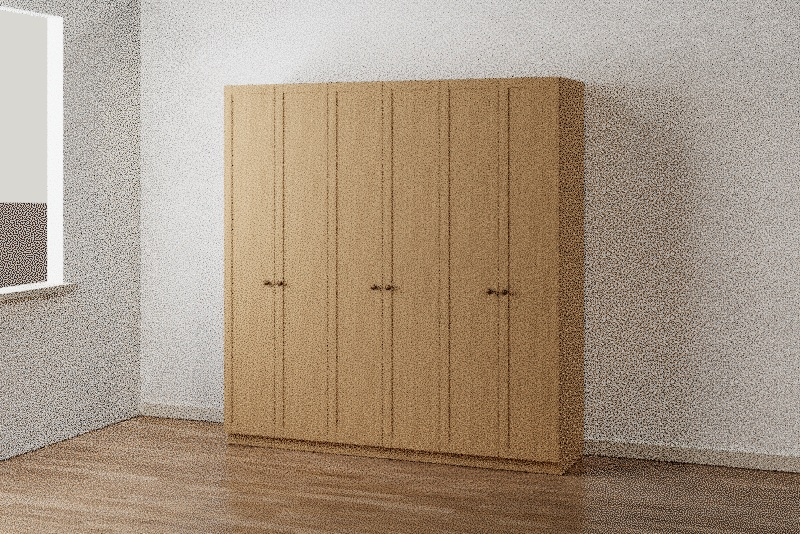
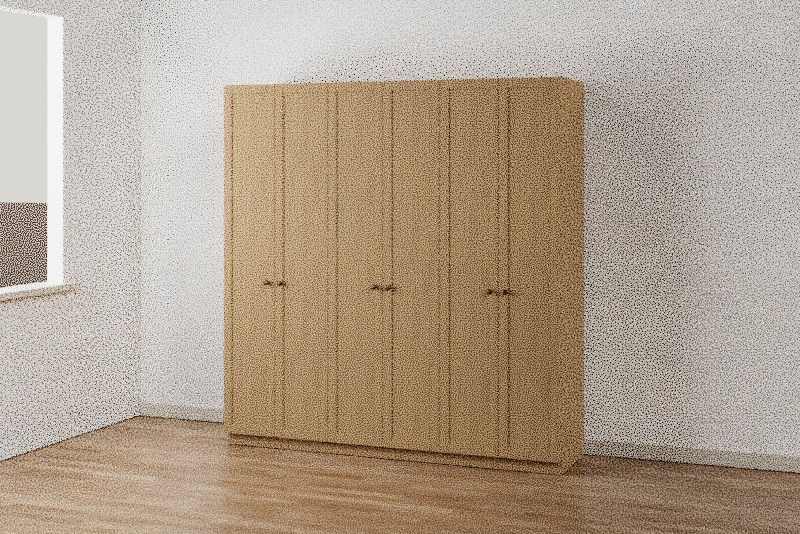
Validate Dolap material coupling and publish product-specific detail previews

diff --git a/knowledge/atmosfer/ornekler.md b/knowledge/atmosfer/ornekler.md
@@ -33,7 +33,7 @@ Yeni raster **2400×1600**; deneysel Vulkan **800×534 / 16 örnek**; CPU Cycles
 | storage-02 | 2400 px CPU üretimi sürüyor; henüz teslim edilmedi. <br> Kapak yüzeyi ve kenar | 2400 px CPU üretimi sürüyor; henüz teslim edilmedi. <br> Kulp / kapak birleşimi | 2400 px CPU üretimi sürüyor; henüz teslim edilmedi. <br> Kapak derzi / gövde birleşimi |
 | kitchen-01 | 2400 px CPU üretimi sürüyor; henüz teslim edilmedi. <br> Tezgâh yüzeyi | 2400 px CPU üretimi sürüyor; henüz teslim edilmedi. <br> Kapak / çekmece derzi | 2400 px CPU üretimi sürüyor; henüz teslim edilmedi. <br> Kulp ve ön yüz birleşimi |
 | kitchen-02 | 2400 px CPU üretimi sürüyor; henüz teslim edilmedi. <br> Tezgâh yüzeyi | 2400 px CPU üretimi sürüyor; henüz teslim edilmedi. <br> Kapak / çekmece derzi | 2400 px CPU üretimi sürüyor; henüz teslim edilmedi. <br> Kulp ve ön yüz birleşimi |
-| bath-01 | 2400 px CPU üretimi sürüyor; henüz teslim edilmedi. <br> Lavabo tablası yüzeyi ve kenarı | 2400 px CPU üretimi sürüyor; henüz teslim edilmedi. <br> Çekmece derzi ve kapak yüzeyi | 2400 px CPU üretimi sürüyor; henüz teslim edilmedi. <br> Kulp veya ayak birleşimi |
+| bath-01 | ![Lavabo tablası yüzeyi ve kenarı](kareler/bath-01-detail-1.jpg) <br> Lavabo tablası yüzeyi ve kenarı | ![Çekmece derzi ve kapak yüzeyi](kareler/bath-01-detail-2.jpg) <br> Çekmece derzi ve kapak yüzeyi | 2400 px CPU üretimi sürüyor; henüz teslim edilmedi. <br> Kulp veya ayak birleşimi |
 | bath-02 | 2400 px CPU üretimi sürüyor; henüz teslim edilmedi. <br> Lavabo tablası yüzeyi ve kenarı | 2400 px CPU üretimi sürüyor; henüz teslim edilmedi. <br> Çekmece derzi ve kapak yüzeyi | 2400 px CPU üretimi sürüyor; henüz teslim edilmedi. <br> Kulp veya ayak birleşimi |
 | wardrobe-01 | 2400 px CPU üretimi sürüyor; henüz teslim edilmedi. <br> Kapak yüzeyi ve kenar | 2400 px CPU üretimi sürüyor; henüz teslim edilmedi. <br> Kulp / kapak birleşimi | 2400 px CPU üretimi sürüyor; henüz teslim edilmedi. <br> Kapak derzi / gövde birleşimi |
 | wardrobe-02 | 2400 px CPU üretimi sürüyor; henüz teslim edilmedi. <br> Kapak yüzeyi ve kenar | 2400 px CPU üretimi sürüyor; henüz teslim edilmedi. <br> Kulp / kapak birleşimi | 2400 px CPU üretimi sürüyor; henüz teslim edilmedi. <br> Kapak derzi / gövde birleşimi |

diff --git a/knowledge/atmosfer/README.md b/knowledge/atmosfer/README.md
@@ -32,4 +32,4 @@ node tests/visual/atmosfer-01/run-local.mjs tests/visual/atmosfer-01/render-suit
 node tests/atmosfer-check.mjs
 ```
 
-Playwright yalnız loopback sunucuya ve temiz profile erişir; dış ağ istekleri engellenir. [Cycles CLI ve sunucu notu](CYCLES.md). Tarayıcı modülü yalnız istenince yüklenir; lazy yükleme/iptal/gerekçeli raster yedeği kontrol edilir. API anahtarı, bulut render ve ürün için görüntü üreten AI kullanılmaz. score.mjs ve METİN kayıtlarına dokunulmaz.
+Playwright yalnız loopback sunucuya ve temiz profile erişir; dış ağ istekleri engellenir. İzole tarayıcı kapatması süre sınırına bağlıdır; zorunlu süreç temizliği rapora ayrı yazılır. [Cycles CLI ve sunucu notu](CYCLES.md). Tarayıcı modülü yalnız istenince yüklenir; lazy yükleme/iptal/gerekçeli raster yedeği kontrol edilir. API anahtarı, bulut render ve ürün için görüntü üreten AI kullanılmaz. score.mjs ve METİN kayıtlarına dokunulmaz.

diff --git a/knowledge/atmosfer/REVIZYON-20261019.md b/knowledge/atmosfer/REVIZYON-20261019.md
@@ -2,6 +2,8 @@
 
 `49be4f839508bab1d9791f0816e31a4bf450ece5` atmosfer dalına normal merge ile alındı. Main'deki tabla triangülasyonu ve oda boyutlandırması korunur. Eski yatak odası takımı güncel örneklerden ve güncel teslim dosyalarından çıkarıldı. Yerine iki gerçek `storage/wardrobe` tasarımı vardır; eski takımla aynı ürün olduğu iddia edilmez.
 
+Yeni Dolap örneklerinde kaplama ön yüzler motorun MDF/kalınlık kuralıyla eşleştirildi. Fixture malzeme–panel tutarlılığı ayrıca test edilir. Bu iki tasarımın GLB ve raster/Vulkan kareleri eşleştirmeden sonra yenilendi; `kareler/wardrobe-rerender-report.json` seçili tekrar çekimi kaydeder.
+
 | İstenen düzeltme | Uygulama / denetim |
 |---|---|
 | Dama zemini kaldır | Bütün yeni sahneler WoodFloor051; Tiles074 yüklenmez |
